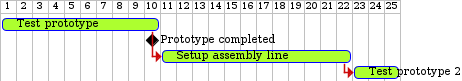
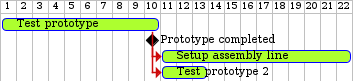
update Demo Website

diff --git a/docs/index.html b/docs/index.html
@@ -458,10 +458,26 @@ pre.rouge .hll * {
 <div id="toc" class="toc2">
 <div id="toctitle">Table of Contents</div>
 <ul class="sectlevel1">
-<li><a href="#_pflichtenheft">1. Pflichtenheft</a></li>
-<li><a href="#_projekthandbuch">2. Projekthandbuch</a>
+<li><a href="#_pflichtenheft_was_mache_ich">1. Pflichtenheft "Was mache ich"</a>
 <ul class="sectlevel2">
-<li><a href="#_gantt_diagramm">2.1. GANTT-Diagramm</a></li>
+<li><a href="#_ausgangssituation">1.1. Ausgangssituation</a></li>
+<li><a href="#_istzustand">1.2. Istzustand</a></li>
+<li><a href="#_problemstellung">1.3. Problemstellung</a></li>
+<li><a href="#_aufgabenstellung">1.4. Aufgabenstellung</a></li>
+<li><a href="#_ziele">1.5. Ziele</a></li>
+<li><a href="#_mengengerüst">1.6. Mengengerüst</a></li>
+<li><a href="#_rahmenbedingungen">1.7. Rahmenbedingungen</a></li>
+</ul>
+</li>
+<li><a href="#_entwurf_wie_mache_ich_es">2. Entwurf "Wie mache ich es"</a>
+<ul class="sectlevel2">
+<li><a href="#_systemarchitektur">2.1. Systemarchitektur</a></li>
+<li><a href="#">2.2. &#8230;&#8203;</a></li>
+</ul>
+</li>
+<li><a href="#_projekthandbuch_organisatorischen_rahmenbedigungen">3. Projekthandbuch "Organisatorischen Rahmenbedigungen"</a>
+<ul class="sectlevel2">
+<li><a href="#_gantt_diagramm">3.1. GANTT-Diagramm</a></li>
 </ul>
 </li>
 </ul>
@@ -469,22 +485,77 @@ pre.rouge .hll * {
 </div>
 <div id="content">
 <div class="sect1">
-<h2 id="_pflichtenheft"><a class="anchor" href="#_pflichtenheft"></a>1. Pflichtenheft</h2>
+<h2 id="_pflichtenheft_was_mache_ich"><a class="anchor" href="#_pflichtenheft_was_mache_ich"></a>1. Pflichtenheft "Was mache ich"</h2>
 <div class="sectionbody">
+<div class="sect2">
+<h3 id="_ausgangssituation"><a class="anchor" href="#_ausgangssituation"></a>1.1. Ausgangssituation</h3>
+<div class="paragraph">
+<p>Die HTL Leonding ist eine HTL im oö. Zentralraum mit ca. 1000 Schülern und den Fachabteilungen Medientewchnik, Informatik, &#8230;&#8203;.</p>
+</div>
+</div>
+<div class="sect2">
+<h3 id="_istzustand"><a class="anchor" href="#_istzustand"></a>1.2. Istzustand</h3>
+<div class="listingblock">
+<div class="content">
+<pre>Beschreibung der speziellen Situation zB in der Abteilung</pre>
+</div>
+</div>
+</div>
+<div class="sect2">
+<h3 id="_problemstellung"><a class="anchor" href="#_problemstellung"></a>1.3. Problemstellung</h3>
+
+</div>
+<div class="sect2">
+<h3 id="_aufgabenstellung"><a class="anchor" href="#_aufgabenstellung"></a>1.4. Aufgabenstellung</h3>
+<div class="sect3">
+<h4 id="_funktionale_anforderungen"><a class="anchor" href="#_funktionale_anforderungen"></a>1.4.1. Funktionale Anforderungen</h4>
+
+</div>
+<div class="sect3">
+<h4 id="_nichtfunktionale_anforderungen_nfa"><a class="anchor" href="#_nichtfunktionale_anforderungen_nfa"></a>1.4.2. Nichtfunktionale Anforderungen (NFA)</h4>
 
 </div>
 </div>
+<div class="sect2">
+<h3 id="_ziele"><a class="anchor" href="#_ziele"></a>1.5. Ziele</h3>
+
+</div>
+<div class="sect2">
+<h3 id="_mengengerüst"><a class="anchor" href="#_mengengerüst"></a>1.6. Mengengerüst</h3>
+
+</div>
+<div class="sect2">
+<h3 id="_rahmenbedingungen"><a class="anchor" href="#_rahmenbedingungen"></a>1.7. Rahmenbedingungen</h3>
+<div class="paragraph">
+<p>zB Vorgaben vom Auftraggeber</p>
+</div>
+</div>
+</div>
+</div>
 <div class="sect1">
-<h2 id="_projekthandbuch"><a class="anchor" href="#_projekthandbuch"></a>2. Projekthandbuch</h2>
+<h2 id="_entwurf_wie_mache_ich_es"><a class="anchor" href="#_entwurf_wie_mache_ich_es"></a>2. Entwurf "Wie mache ich es"</h2>
 <div class="sectionbody">
 <div class="sect2">
-<h3 id="_gantt_diagramm"><a class="anchor" href="#_gantt_diagramm"></a>2.1. GANTT-Diagramm</h3>
+<h3 id="_systemarchitektur"><a class="anchor" href="#_systemarchitektur"></a>2.1. Systemarchitektur</h3>
+
+</div>
+<div class="sect2">
+<h3 id=""><a class="anchor" href="#"></a>2.2. &#8230;&#8203;</h3>
+
+</div>
+</div>
+</div>
+<div class="sect1">
+<h2 id="_projekthandbuch_organisatorischen_rahmenbedigungen"><a class="anchor" href="#_projekthandbuch_organisatorischen_rahmenbedigungen"></a>3. Projekthandbuch "Organisatorischen Rahmenbedigungen"</h2>
+<div class="sectionbody">
+<div class="sect2">
+<h3 id="_gantt_diagramm"><a class="anchor" href="#_gantt_diagramm"></a>3.1. GANTT-Diagramm</h3>
 <div class="paragraph">
 <p>mit User-Stories (definiert in YouTrack)</p>
 </div>
 <div class="imageblock">
 <div class="content">
-<img src="images/gantt-protoype.png" alt="gantt protoype" width="462" height="81">
+<img src="images/gantt-protoype.png" alt="gantt protoype" width="353" height="81">
 </div>
 </div>
 <div class="paragraph">
@@ -497,7 +568,7 @@ pre.rouge .hll * {
 <div id="footer">
 <div id="footer-text">
 Version 1.0<br>
-Last updated 2020-03-12 13:23:14 UTC
+Last updated 2020-03-13 08:20:37 UTC
 </div>
 </div>
 </body>
